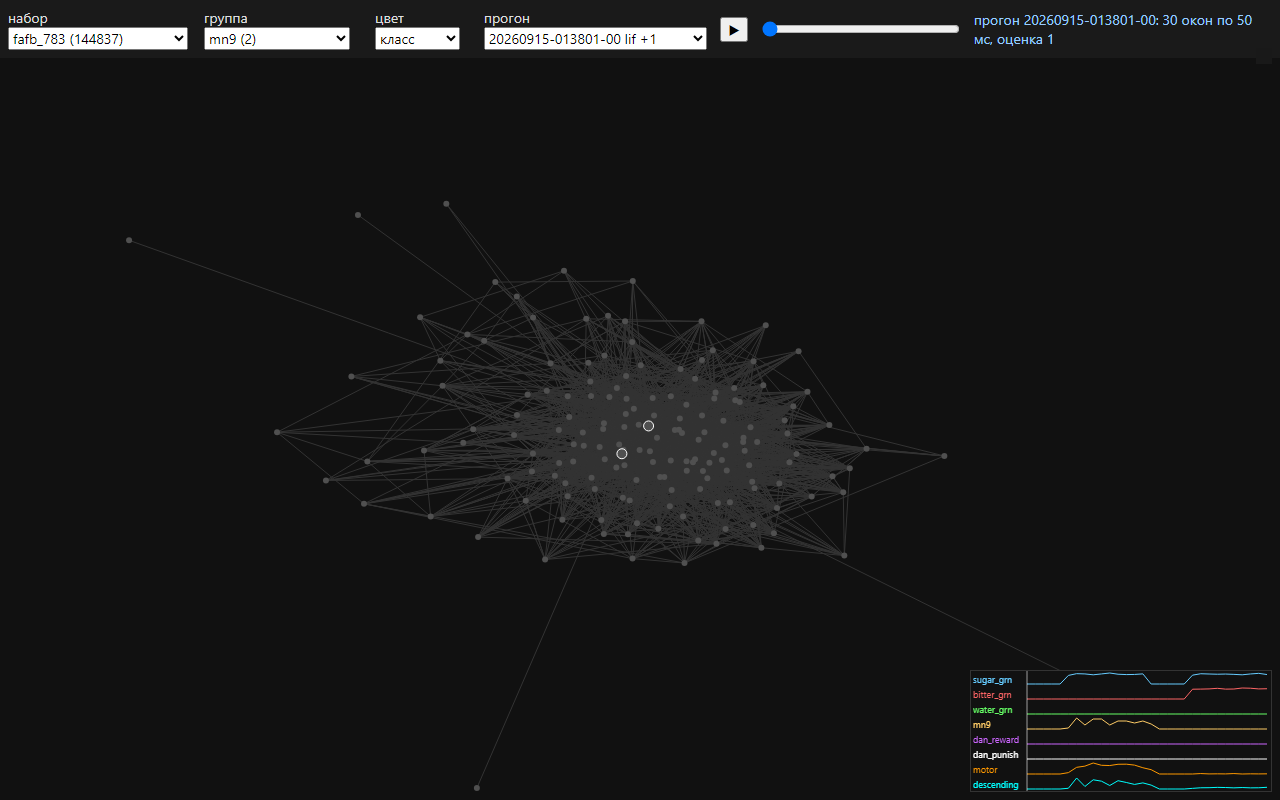
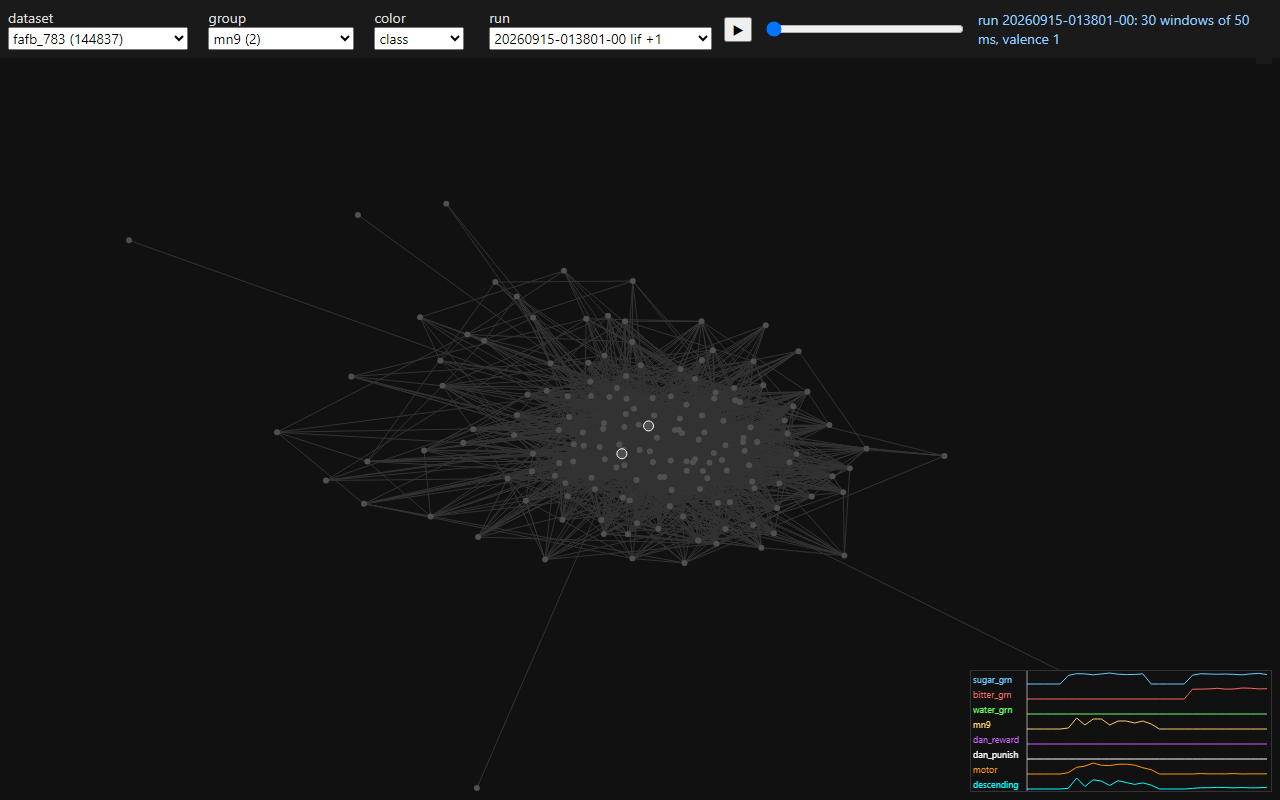
English atlas tables and screenshots; gitignore comments in English

diff --git a/results/atlas/fly_taste-1.md b/results/atlas/fly_taste-1.md
@@ -1,8 +1,8 @@
-# Атлас: fly_taste (2026-09-15 03:41)
+# Atlas: fly_taste (2026-09-15 03:41)
 
-| набор | версия | min_count | правило знаков | baseline | sugar | sugar_bitter | оценка | флаги | пустые группы | прогон |
+| dataset | version | min_count | sign rule | baseline | sugar | sugar_bitter | valence | flags | empty groups | run |
 | --- | --- | --- | --- | --- | --- | --- | --- | --- | --- | --- |
 | banc_888_norm | banc_888 v3 (lee-lab compiled_data, 2026; rule f1355d3e) norm:fafb_783 | 5 | presynaptic neurotransmitter_predicted: ach +1, gaba -1, glutamate -1, histamine -1, dopamine/serotonin/octopamine/tyramine MONOAMINE_SIGN, unclear/unknown/empty 0 | 0.0 | 57.8 | 0.0 | +1 | - | - | 20260915-034159-00 |
 
-модель откалибрована воротами 2 на графе со всеми синапсами (эталон Shiu); атлас идёт на графах с порогом min_count=5; контрольный прогон fafb_783 при min_count=1 — задача следующего плана.
+the model is calibrated by gate 2 on the graph with all synapses (the Shiu reference); the atlas runs on graphs with threshold min_count=5; control run of fafb_783 at min_count=1: 70.0 Hz (see fly_taste-2.md).
 

diff --git a/results/atlas/fly_taste.md b/results/atlas/fly_taste.md
@@ -1,6 +1,6 @@
-# Атлас: fly_taste (2026-09-15 01:38)
+# Atlas: fly_taste (2026-09-15 01:38)
 
-| набор | baseline | sugar | sugar_bitter | оценка | флаги | пустые группы | прогон |
+| dataset | baseline | sugar | sugar_bitter | valence | flags | empty groups | run |
 | --- | --- | --- | --- | --- | --- | --- | --- |
 | fafb_783 | 0.0 | 76.7 | 0.0 | +1 | - | - | 20260915-013801-00 |
 | banc_888 | 0.0 | 17.8 | 4.4 | +1 | - | - | 20260915-013810-00 |
